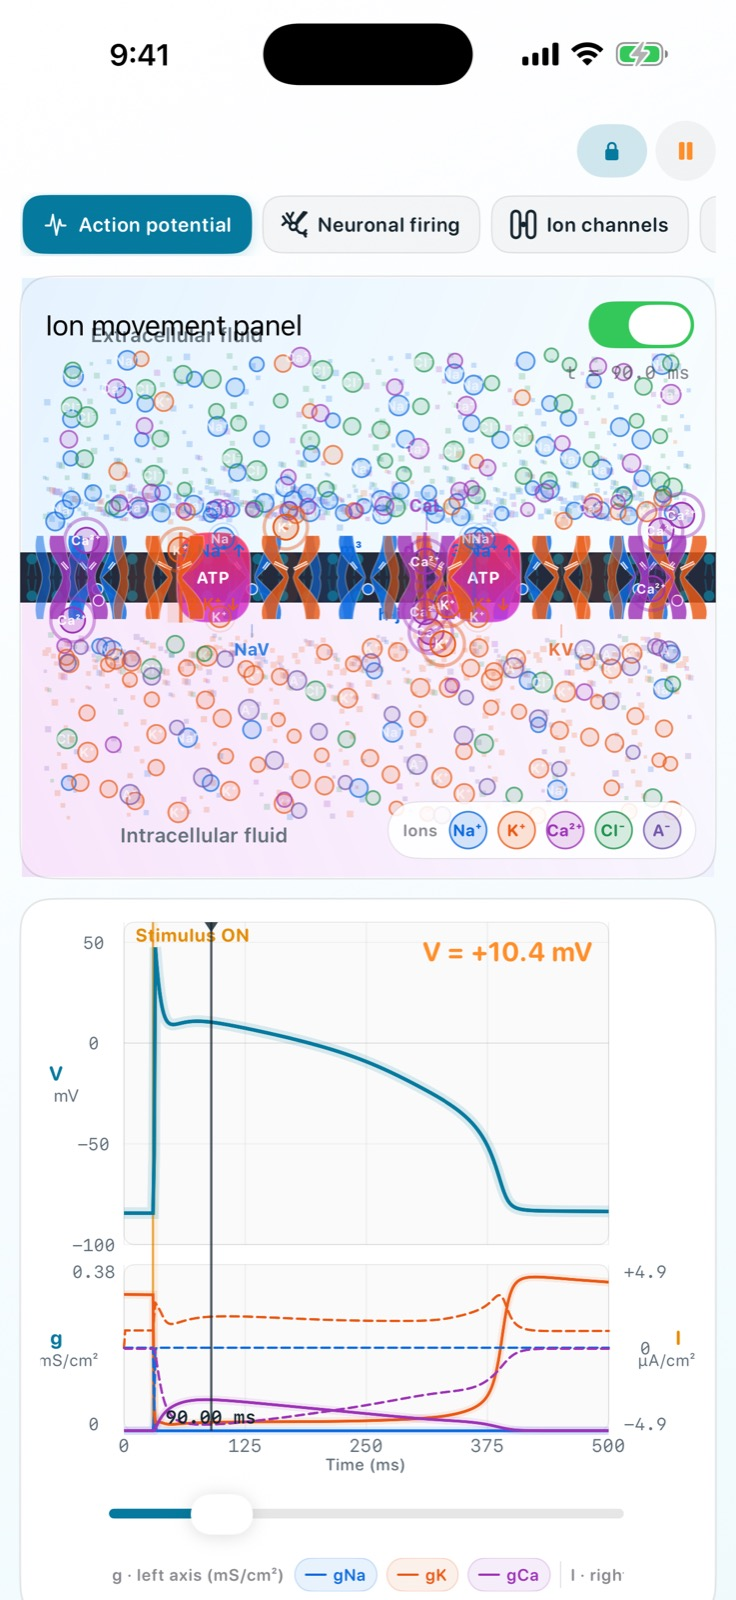
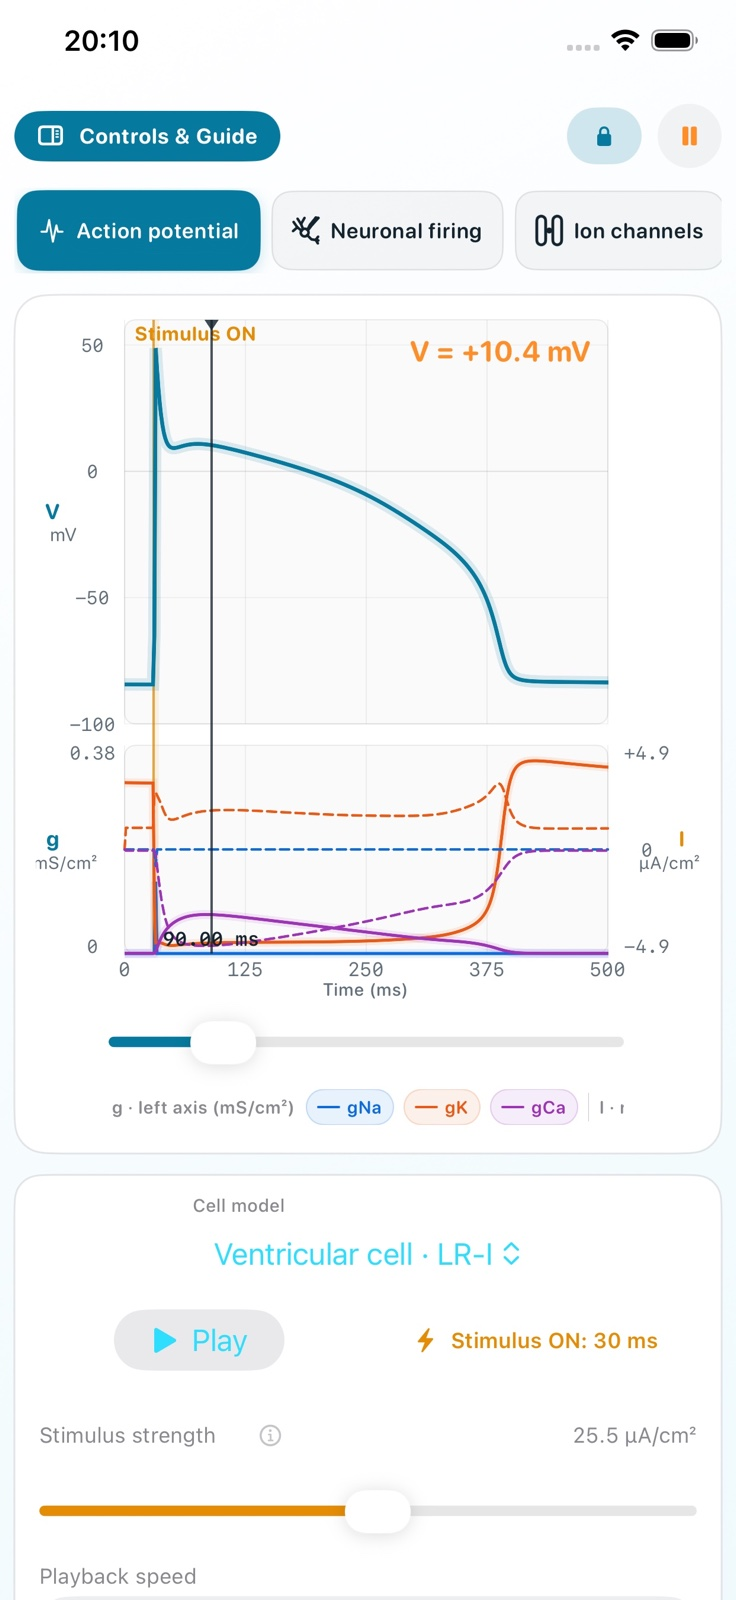
Publish Action Potential Dynamics App Store links

diff --git a/ja/apps/action-potential-dynamics/index.html b/ja/apps/action-potential-dynamics/index.html
@@ -21,7 +21,7 @@
   <header class="site-header">
     <nav class="nav-wrap" aria-label="メインナビゲーション">
       <a class="brand" href="/ja/"><span class="brand-mark">N</span><span>Nakano Lab Software</span></a>
-      <div class="nav-links"><a href="#labs">シミュレーション</a><a href="/ja/apps/action-potential-dynamics/support/">サポート</a><a class="language-link" href="/en/apps/action-potential-dynamics/" lang="en" data-language-link="en">EN</a></div>
+      <div class="nav-links"><a href="#labs">シミュレーション</a><a href="https://apps.apple.com/app/action-potential-dynamics/id6798524754" rel="external">App Store</a><a href="/ja/apps/action-potential-dynamics/support/">サポート</a><a class="language-link" href="/en/apps/action-potential-dynamics/" lang="en" data-language-link="en">EN</a></div>
     </nav>
   </header>
 
@@ -33,11 +33,11 @@
         <div>
           <h1 class="page-title">活動電位<br>ダイナミクス</h1>
           <p class="page-subtitle">膜電位を、イオンの動きと波形でつなぐ。</p>
-          <div class="meta-row"><span class="tag">iPhone</span><span class="tag">iPad</span><span class="tag">Mac</span><span class="tag">10言語対応</span></div>
+          <div class="meta-row"><span class="tag">App Storeで配信中</span><span class="tag">iPhone</span><span class="tag">iPad</span><span class="tag">Mac</span><span class="tag">10言語対応</span></div>
         </div>
       </div>
       <p class="lead">イオン粒子、チャネルゲート、コンダクタンス、電流、膜電位を同じモデル時刻で表示。神経細胞と心室筋細胞の活動電位から、神経細胞の発火、心臓の興奮伝導、シナプス統合、軸索伝導までを、操作できるモデルでたどれます。</p>
-      <div class="button-row"><a class="button primary" href="#labs">6つのシミュレーションを見る <span aria-hidden="true">↓</span></a><a class="button" href="/ja/apps/action-potential-dynamics/support/">使い方・サポート</a></div>
+      <div class="button-row"><a class="button primary" href="https://apps.apple.com/app/action-potential-dynamics/id6798524754" rel="external">App Storeからダウンロード <span aria-hidden="true">↗</span></a><a class="button" href="#labs">6つのシミュレーションを見る <span aria-hidden="true">↓</span></a><a class="button" href="/ja/apps/action-potential-dynamics/support/">使い方・サポート</a></div>
     </section>
 
     <section class="section tinted" id="labs">
@@ -68,9 +68,9 @@
 
     <section class="section tinted">
       <div class="container">
-        <div class="section-head reveal"><p class="eyebrow">In the app</p><h2 class="section-title">動き、波形、説明をひとつの画面に。</h2></div>
+        <div class="section-head reveal"><p class="eyebrow">In the app</p><h2 class="section-title">グラフを大きく。設定と解説は1タップで。</h2><p class="section-copy">縦向きでは波形と主要操作を見やすく保ち、「設定・解説」から詳細パネルを開きます。iPadとMacの横向きでは、グラフと調節パネルを並べて表示します。</p></div>
         <div class="screenshot-grid simulator-screenshot-grid">
-          <figure class="shot portrait reveal"><img src="/assets/images/action-potential-dynamics/ja/ipad-neuron.jpg" alt="iPad版の神経細胞活動電位画面。イオン粒子、膜チャネル、膜電位、コンダクタンス、電流を表示" width="1200" height="1600" loading="lazy"><figcaption>iPad — 神経細胞の活動電位を同じ時間軸で観察</figcaption></figure>
+          <figure class="shot portrait reveal"><img src="/assets/images/action-potential-dynamics/ja/ipad-neuron.jpg" alt="iPad版の神経細胞活動電位画面。膜電位、コンダクタンス、電流を同じ時間軸で表示" width="1200" height="1600" loading="lazy"><figcaption>iPad — グラフ中心の縦向き配置から「設定・解説」を1タップで表示</figcaption></figure>
           <figure class="shot phone reveal"><img src="/assets/images/action-potential-dynamics/ja/iphone-cardiac.jpg" alt="iPhone版の心室筋活動電位画面" width="736" height="1600" loading="lazy"><figcaption>iPhone — Ca²⁺が支える心室筋のプラトー相</figcaption></figure>
           <figure class="shot portrait reveal"><img src="/assets/images/action-potential-dynamics/ja/ipad-experiment.jpg" alt="iPad版のProで標準条件とコンダクタンス変更後を比較している画面" width="1200" height="1600" loading="lazy"><figcaption>iPad — 標準条件と実験条件を重ねて比較</figcaption></figure>
         </div>
@@ -86,17 +86,17 @@
 
     <section class="section tinted">
       <div class="container">
-        <div class="section-head reveal"><p class="eyebrow">Requirements & privacy</p><h2 class="section-title">計算は端末の中で完結。</h2></div>
+        <div class="section-head reveal"><p class="eyebrow">Requirements &amp; privacy</p><h2 class="section-title">計算は端末の中で完結。</h2></div>
         <div class="split">
           <article class="notice reveal"><h3>動作環境と言語</h3><p>iOS／iPadOS 17以降、macOS 14以降。日本語、英語、韓国語、中国語（簡体字・繁体字）、スペイン語、フランス語、ドイツ語、イタリア語、ブラジルポルトガル語に対応します。</p></article>
           <article class="notice reveal"><h3>データと利用目的</h3><p>アカウント、広告、アクセス解析はありません。シミュレーションは端末上で実行されます。本アプリは学習と可視化を目的とし、医療機器ではなく、診断や治療には使用できません。</p></article>
         </div>
-        <div class="button-row"><a class="button" href="/ja/apps/action-potential-dynamics/support/">サポート</a><a class="button" href="/ja/apps/action-potential-dynamics/privacy/">プライバシーポリシー</a></div>
+        <div class="button-row"><a class="button primary" href="https://apps.apple.com/app/action-potential-dynamics/id6798524754" rel="external">App Storeからダウンロード <span aria-hidden="true">↗</span></a><a class="button" href="/ja/apps/action-potential-dynamics/support/">サポート</a><a class="button" href="/ja/apps/action-potential-dynamics/privacy/">プライバシーポリシー</a></div>
       </div>
     </section>
   </main>
 
-  <footer class="site-footer"><div class="container footer-row"><p class="footer-copy">© <span data-current-year>2026</span> Takashi Nakano. All rights reserved.</p><div class="footer-links"><a href="/ja/apps/action-potential-dynamics/support/">サポート</a><a href="/ja/apps/action-potential-dynamics/privacy/">プライバシー</a></div></div></footer>
+  <footer class="site-footer"><div class="container footer-row"><p class="footer-copy">© <span data-current-year>2026</span> Takashi Nakano. All rights reserved.</p><div class="footer-links"><a href="https://apps.apple.com/app/action-potential-dynamics/id6798524754" rel="external">App Store</a><a href="/ja/apps/action-potential-dynamics/support/">サポート</a><a href="/ja/apps/action-potential-dynamics/privacy/">プライバシー</a></div></div></footer>
   <script src="/assets/js/site.js" defer></script>
 </body>
 </html>

diff --git a/en/apps/action-potential-dynamics/index.html b/en/apps/action-potential-dynamics/index.html
@@ -21,7 +21,7 @@
   <header class="site-header">
     <nav class="nav-wrap" aria-label="Main navigation">
       <a class="brand" href="/en/"><span class="brand-mark">N</span><span>Nakano Lab Software</span></a>
-      <div class="nav-links"><a href="#labs">Simulations</a><a href="/en/apps/action-potential-dynamics/support/">Support</a><a class="language-link" href="/ja/apps/action-potential-dynamics/" lang="ja" data-language-link="ja">日本語</a></div>
+      <div class="nav-links"><a href="#labs">Simulations</a><a href="https://apps.apple.com/app/action-potential-dynamics/id6798524754" rel="external">App Store</a><a href="/en/apps/action-potential-dynamics/support/">Support</a><a class="language-link" href="/ja/apps/action-potential-dynamics/" lang="ja" data-language-link="ja">日本語</a></div>
     </nav>
   </header>
 
@@ -33,11 +33,11 @@
         <div>
           <h1 class="page-title">Action Potential<br>Dynamics</h1>
           <p class="page-subtitle">Connect membrane voltage with ion movement and waveforms.</p>
-          <div class="meta-row"><span class="tag">iPhone</span><span class="tag">iPad</span><span class="tag">Mac</span><span class="tag">10 languages</span></div>
+          <div class="meta-row"><span class="tag">Available on the App Store</span><span class="tag">iPhone</span><span class="tag">iPad</span><span class="tag">Mac</span><span class="tag">10 languages</span></div>
         </div>
       </div>
       <p class="lead">See ion particles, channel gates, conductance, current, and membrane voltage at the same model time. Follow excitable-cell behavior from neuronal and ventricular action potentials to neuronal firing, cardiac conduction, synaptic integration, and axon propagation.</p>
-      <div class="button-row"><a class="button primary" href="#labs">Explore six simulations <span aria-hidden="true">↓</span></a><a class="button" href="/en/apps/action-potential-dynamics/support/">How to use &amp; support</a></div>
+      <div class="button-row"><a class="button primary" href="https://apps.apple.com/app/action-potential-dynamics/id6798524754" rel="external">Download on the App Store <span aria-hidden="true">↗</span></a><a class="button" href="#labs">Explore six simulations <span aria-hidden="true">↓</span></a><a class="button" href="/en/apps/action-potential-dynamics/support/">How to use &amp; support</a></div>
     </section>
 
     <section class="section tinted" id="labs">
@@ -68,9 +68,9 @@
 
     <section class="section tinted">
       <div class="container">
-        <div class="section-head reveal"><p class="eyebrow">In the app</p><h2 class="section-title">Movement, traces, and explanations together.</h2></div>
+        <div class="section-head reveal"><p class="eyebrow">In the app</p><h2 class="section-title">Graphs first. Controls and guidance one tap away.</h2><p class="section-copy">Portrait layouts keep the waveform and primary controls in view; Controls &amp; Guide opens the detailed settings and explanations. Landscape iPad and Mac layouts keep the familiar side-by-side workspace.</p></div>
         <div class="screenshot-grid simulator-screenshot-grid">
-          <figure class="shot portrait reveal"><img src="/assets/images/action-potential-dynamics/en/ipad-neuron.jpg" alt="iPad neuronal action-potential screen showing ion particles, membrane channels, voltage, conductance, and current" width="1200" height="1600" loading="lazy"><figcaption>iPad — Observe a neuronal action potential on one timeline</figcaption></figure>
+          <figure class="shot portrait reveal"><img src="/assets/images/action-potential-dynamics/en/ipad-neuron.jpg" alt="iPad neuronal action-potential screen showing voltage, conductance, and current on one timeline" width="1200" height="1600" loading="lazy"><figcaption>iPad — A graph-focused portrait layout with Controls &amp; Guide one tap away</figcaption></figure>
           <figure class="shot phone reveal"><img src="/assets/images/action-potential-dynamics/en/iphone-cardiac.jpg" alt="iPhone ventricular-cell action-potential screen" width="736" height="1600" loading="lazy"><figcaption>iPhone — The Ca²⁺-supported ventricular plateau</figcaption></figure>
           <figure class="shot portrait reveal"><img src="/assets/images/action-potential-dynamics/en/ipad-experiment.jpg" alt="iPad Pro features comparing standard and adjusted conductance conditions" width="1200" height="1600" loading="lazy"><figcaption>iPad — Overlay standard and experimental conditions</figcaption></figure>
         </div>
@@ -86,17 +86,17 @@
 
     <section class="section tinted">
       <div class="container">
-        <div class="section-head reveal"><p class="eyebrow">Requirements & privacy</p><h2 class="section-title">Simulation stays on your device.</h2></div>
+        <div class="section-head reveal"><p class="eyebrow">Requirements &amp; privacy</p><h2 class="section-title">Simulation stays on your device.</h2></div>
         <div class="split">
           <article class="notice reveal"><h3>Systems and languages</h3><p>Requires iOS/iPadOS 17 or later or macOS 14 or later. The interface supports English, Japanese, Korean, Simplified and Traditional Chinese, Spanish, French, German, Italian, and Brazilian Portuguese.</p></article>
           <article class="notice reveal"><h3>Data and intended use</h3><p>There are no accounts, ads, or analytics. Simulations run on your device. The app is for learning and visualization, is not a medical device, and must not be used for diagnosis or treatment.</p></article>
         </div>
-        <div class="button-row"><a class="button" href="/en/apps/action-potential-dynamics/support/">Support</a><a class="button" href="/en/apps/action-potential-dynamics/privacy/">Privacy Policy</a></div>
+        <div class="button-row"><a class="button primary" href="https://apps.apple.com/app/action-potential-dynamics/id6798524754" rel="external">Download on the App Store <span aria-hidden="true">↗</span></a><a class="button" href="/en/apps/action-potential-dynamics/support/">Support</a><a class="button" href="/en/apps/action-potential-dynamics/privacy/">Privacy Policy</a></div>
       </div>
     </section>
   </main>
 
-  <footer class="site-footer"><div class="container footer-row"><p class="footer-copy">© <span data-current-year>2026</span> Takashi Nakano. All rights reserved.</p><div class="footer-links"><a href="/en/apps/action-potential-dynamics/support/">Support</a><a href="/en/apps/action-potential-dynamics/privacy/">Privacy</a></div></div></footer>
+  <footer class="site-footer"><div class="container footer-row"><p class="footer-copy">© <span data-current-year>2026</span> Takashi Nakano. All rights reserved.</p><div class="footer-links"><a href="https://apps.apple.com/app/action-potential-dynamics/id6798524754" rel="external">App Store</a><a href="/en/apps/action-potential-dynamics/support/">Support</a><a href="/en/apps/action-potential-dynamics/privacy/">Privacy</a></div></div></footer>
   <script src="/assets/js/site.js" defer></script>
 </body>
 </html>

diff --git a/ja/apps/action-potential-dynamics/support/index.html b/ja/apps/action-potential-dynamics/support/index.html
@@ -10,13 +10,13 @@
 </head>
 <body>
   <a class="skip-link" href="#main">本文へ移動</a>
-  <header class="site-header"><nav class="nav-wrap" aria-label="メインナビゲーション"><a class="brand" href="/ja/"><span class="brand-mark">N</span><span>Nakano Lab Software</span></a><div class="nav-links"><a href="/ja/apps/action-potential-dynamics/">活動電位ダイナミクス</a><a href="/ja/apps/action-potential-dynamics/privacy/">プライバシー</a><a class="language-link" href="/en/apps/action-potential-dynamics/support/" lang="en" data-language-link="en">EN</a></div></nav></header>
+  <header class="site-header"><nav class="nav-wrap" aria-label="メインナビゲーション"><a class="brand" href="/ja/"><span class="brand-mark">N</span><span>Nakano Lab Software</span></a><div class="nav-links"><a href="/ja/apps/action-potential-dynamics/">活動電位ダイナミクス</a><a href="https://apps.apple.com/app/action-potential-dynamics/id6798524754" rel="external">App Store</a><a href="/ja/apps/action-potential-dynamics/privacy/">プライバシー</a><a class="language-link" href="/en/apps/action-potential-dynamics/support/" lang="en" data-language-link="en">EN</a></div></nav></header>
   <main id="main" class="container document-layout">
     <aside class="doc-nav" aria-label="ページ内目次"><strong>このページ</strong><a href="#requirements">動作環境</a><a href="#start">基本的な使い方</a><a href="#observe">見るべきポイント</a><a href="#faq">よくある質問</a><a href="#contact">お問い合わせ</a></aside>
     <article class="document">
       <p class="breadcrumbs"><a href="/ja/">Nakano Lab Software</a> / <a href="/ja/apps/action-potential-dynamics/">活動電位ダイナミクス</a> / サポート</p>
       <h1>活動電位ダイナミクス<br>サポート</h1>
-      <p class="updated">更新日: 2026年8月22日</p>
+      <p class="updated">更新日: 2026年9月24日</p>
       <p>活動電位ダイナミクスは、イオンの動き、チャネルの状態、コンダクタンス、電流、膜電位を同じ時刻で結びつけて観察するiPhone・iPad・Mac向けシミュレーターです。活動電位、神経細胞発火特性、イオンチャネル、心臓リズム、シナプス統合、軸索伝導の6画面を収録しています。</p>
 
       <h2 id="requirements">動作環境</h2>
@@ -28,13 +28,14 @@
         <li>画面上部のタブから、見たいシミュレーションを選びます。横幅が足りない場合は、タブ列を横へスクロールできます。</li>
         <li>再生／一時停止を切り替えます。再生速度は0.25×、0.5×、1×、2×から選べます。</li>
         <li>グラフ下の時間カーソルを動かし、任意の時点の粒子、チャネルゲート、波形、説明を対応させます。</li>
-        <li>右側または下部の調節パネルで、細胞型、条件、刺激、パラメータを変更します。情報ボタンから各設定の説明を確認できます。</li>
+        <li>iPhone、iPadの縦向き、または狭いウインドウでは「設定・解説」を押し、設定と説明をスクロール可能なパネルで開きます。横向きの広い画面では、グラフの横にある調節パネルを使います。情報ボタンから各設定の説明を確認できます。</li>
         <li>波形を保持できる画面では、変更前の波形を残してから条件を変え、変更後と重ねて比較します。</li>
         <li>最初の状態へ戻すときは、リセットボタンを押します。</li>
       </ol>
 
       <h3>Pro</h3>
       <p>Proは米国価格USD 7.99の買い切りです。ほかの地域ではApp Storeに表示される対応価格が適用されます。全6種類のシミュレーションで現在の条件と主要指標を最大50件記録し、同じシミュレーションの直近2件を数値比較して、全記録をCSVで書き出せます。活動電位の最大Na⁺・K⁺・Ca²⁺コンダクタンス調整、標準波形比較、チャネル抑制プリセット、イオンチャネルの保持波形比較、専門的な神経細胞5種も解放します。基本の6シミュレーションと神経細胞4種は購入なしで利用できます。同じApple Accountを使用する別の対応端末では「購入を復元」を選んでください。</p>
+      <p><a class="button primary" href="https://apps.apple.com/app/action-potential-dynamics/id6798524754" rel="external">App Storeからダウンロード <span aria-hidden="true">↗</span></a></p>
 
       <h2 id="observe">シミュレーションごとの見るべきポイント</h2>
       <h3>活動電位</h3>
@@ -75,7 +76,7 @@
       <div class="contact-box"><strong>活動電位ダイナミクス Support</strong><br>運営者: Takashi Nakano<br>メール: <a href="mailto:nakano.prog@gmail.com">nakano.prog@gmail.com</a></div>
     </article>
   </main>
-  <footer class="site-footer"><div class="container footer-row"><p class="footer-copy">© <span data-current-year>2026</span> Takashi Nakano.</p><div class="footer-links"><a href="/ja/apps/action-potential-dynamics/">活動電位ダイナミクス</a><a href="/ja/apps/action-potential-dynamics/privacy/">プライバシー</a></div></div></footer>
+  <footer class="site-footer"><div class="container footer-row"><p class="footer-copy">© <span data-current-year>2026</span> Takashi Nakano.</p><div class="footer-links"><a href="https://apps.apple.com/app/action-potential-dynamics/id6798524754" rel="external">App Store</a><a href="/ja/apps/action-potential-dynamics/">活動電位ダイナミクス</a><a href="/ja/apps/action-potential-dynamics/privacy/">プライバシー</a></div></div></footer>
   <script src="/assets/js/site.js" defer></script>
 </body>
 </html>

diff --git a/en/apps/action-potential-dynamics/support/index.html b/en/apps/action-potential-dynamics/support/index.html
@@ -10,13 +10,13 @@
 </head>
 <body>
   <a class="skip-link" href="#main">Skip to content</a>
-  <header class="site-header"><nav class="nav-wrap" aria-label="Main navigation"><a class="brand" href="/en/"><span class="brand-mark">N</span><span>Nakano Lab Software</span></a><div class="nav-links"><a href="/en/apps/action-potential-dynamics/">Action Potential Dynamics</a><a href="/en/apps/action-potential-dynamics/privacy/">Privacy</a><a class="language-link" href="/ja/apps/action-potential-dynamics/support/" lang="ja" data-language-link="ja">日本語</a></div></nav></header>
+  <header class="site-header"><nav class="nav-wrap" aria-label="Main navigation"><a class="brand" href="/en/"><span class="brand-mark">N</span><span>Nakano Lab Software</span></a><div class="nav-links"><a href="/en/apps/action-potential-dynamics/">Action Potential Dynamics</a><a href="https://apps.apple.com/app/action-potential-dynamics/id6798524754" rel="external">App Store</a><a href="/en/apps/action-potential-dynamics/privacy/">Privacy</a><a class="language-link" href="/ja/apps/action-potential-dynamics/support/" lang="ja" data-language-link="ja">日本語</a></div></nav></header>
   <main id="main" class="container document-layout">
     <aside class="doc-nav" aria-label="On this page"><strong>On this page</strong><a href="#requirements">Requirements</a><a href="#start">Getting started</a><a href="#observe">What to observe</a><a href="#faq">FAQ</a><a href="#contact">Contact</a></aside>
     <article class="document">
       <p class="breadcrumbs"><a href="/en/">Nakano Lab Software</a> / <a href="/en/apps/action-potential-dynamics/">Action Potential Dynamics</a> / Support</p>
       <h1>Action Potential Dynamics<br>Support</h1>
-      <p class="updated">Updated: August 22, 2026</p>
+      <p class="updated">Updated: September 24, 2026</p>
       <p>Action Potential Dynamics is an iPhone, iPad, and Mac simulator that connects ion movement, channel state, conductance, current, and membrane voltage at the same model time. It contains six screens: Action Potential, Neuronal Firing Characteristics, Ion Channels, Cardiac Rhythm, Synaptic Integration, and Axon Conduction.</p>
 
       <h2 id="requirements">System requirements</h2>
@@ -28,13 +28,14 @@
         <li>Choose a simulation from the tab row at the top. Scroll the row horizontally when all tabs do not fit.</li>
         <li>Start or pause playback. Available playback speeds are 0.25×, 0.5×, 1×, and 2×.</li>
         <li>Move the time cursor below the graph to align particle positions, channel gates, traces, and explanations at any recorded instant.</li>
-        <li>Use the control panel at the side or bottom to change the cell type, condition, stimulus, or parameter. Information buttons explain individual settings.</li>
+        <li>On iPhone, portrait iPad, or a narrow window, tap Controls &amp; Guide to open the settings and explanations in a scrollable panel. On wider landscape layouts, use the inspector beside the graph. Information buttons explain individual settings.</li>
         <li>Where trace hold is available, keep the current result before changing a condition, then overlay the before-and-after traces.</li>
         <li>Use Reset to return the selected simulation to its initial state.</li>
       </ol>
 
       <h3>Pro</h3>
       <p>Pro is a US$7.99 one-time purchase in the United States storefront; other storefronts use the corresponding price shown by the App Store. It records up to 50 conditions and key measurements across all six simulations, compares the latest two results from the same simulation numerically, and exports all records as CSV. It also unlocks maximum Na⁺, K⁺, and Ca²⁺ conductance controls, standard-trace comparison, channel-inhibition presets, held Ion Channel traces, and five specialized neuron presets. All six core simulations and four foundational neuron presets remain available without purchase. On another supported device using the same Apple Account, choose Restore Purchases.</p>
+      <p><a class="button primary" href="https://apps.apple.com/app/action-potential-dynamics/id6798524754" rel="external">Download on the App Store <span aria-hidden="true">↗</span></a></p>
 
       <h2 id="observe">What to observe in each simulation</h2>
       <h3>Action Potential</h3>
@@ -75,7 +76,7 @@
       <div class="contact-box"><strong>Action Potential Dynamics Support</strong><br>Operator: Takashi Nakano<br>Email: <a href="mailto:nakano.prog@gmail.com">nakano.prog@gmail.com</a></div>
     </article>
   </main>
-  <footer class="site-footer"><div class="container footer-row"><p class="footer-copy">© <span data-current-year>2026</span> Takashi Nakano.</p><div class="footer-links"><a href="/en/apps/action-potential-dynamics/">Action Potential Dynamics</a><a href="/en/apps/action-potential-dynamics/privacy/">Privacy</a></div></div></footer>
+  <footer class="site-footer"><div class="container footer-row"><p class="footer-copy">© <span data-current-year>2026</span> Takashi Nakano.</p><div class="footer-links"><a href="https://apps.apple.com/app/action-potential-dynamics/id6798524754" rel="external">App Store</a><a href="/en/apps/action-potential-dynamics/">Action Potential Dynamics</a><a href="/en/apps/action-potential-dynamics/privacy/">Privacy</a></div></div></footer>
   <script src="/assets/js/site.js" defer></script>
 </body>
 </html>

diff --git a/ja/apps/action-potential-dynamics/privacy/index.html b/ja/apps/action-potential-dynamics/privacy/index.html
@@ -10,7 +10,7 @@
 </head>
 <body>
   <a class="skip-link" href="#main">本文へ移動</a>
-  <header class="site-header"><nav class="nav-wrap" aria-label="メインナビゲーション"><a class="brand" href="/ja/"><span class="brand-mark">N</span><span>Nakano Lab Software</span></a><div class="nav-links"><a href="/ja/apps/action-potential-dynamics/">活動電位ダイナミクス</a><a href="/ja/apps/action-potential-dynamics/support/">サポート</a><a class="language-link" href="/en/apps/action-potential-dynamics/privacy/" lang="en" data-language-link="en">EN</a></div></nav></header>
+  <header class="site-header"><nav class="nav-wrap" aria-label="メインナビゲーション"><a class="brand" href="/ja/"><span class="brand-mark">N</span><span>Nakano Lab Software</span></a><div class="nav-links"><a href="/ja/apps/action-potential-dynamics/">活動電位ダイナミクス</a><a href="https://apps.apple.com/app/action-potential-dynamics/id6798524754" rel="external">App Store</a><a href="/ja/apps/action-potential-dynamics/support/">サポート</a><a class="language-link" href="/en/apps/action-potential-dynamics/privacy/" lang="en" data-language-link="en">EN</a></div></nav></header>
   <main id="main" class="container document-layout">
     <aside class="doc-nav" aria-label="ページ内目次"><strong>このページ</strong><a href="#collection">データ収集</a><a href="#processing">端末内処理</a><a href="#purchase">アプリ内購入</a><a href="#medical">利用目的</a><a href="#contact">お問い合わせ</a></aside>
     <article class="document">
@@ -53,7 +53,7 @@
       <div class="contact-box">運営者: Takashi Nakano<br>メール: <a href="mailto:nakano.prog@gmail.com">nakano.prog@gmail.com</a><br>Web: <a href="https://nakano-lab.github.io/ja/apps/action-potential-dynamics/">nakano-lab.github.io/ja/apps/action-potential-dynamics/</a></div>
     </article>
   </main>
-  <footer class="site-footer"><div class="container footer-row"><p class="footer-copy">© <span data-current-year>2026</span> Takashi Nakano.</p><div class="footer-links"><a href="/ja/apps/action-potential-dynamics/">活動電位ダイナミクス</a><a href="/ja/apps/action-potential-dynamics/support/">サポート</a></div></div></footer>
+  <footer class="site-footer"><div class="container footer-row"><p class="footer-copy">© <span data-current-year>2026</span> Takashi Nakano.</p><div class="footer-links"><a href="https://apps.apple.com/app/action-potential-dynamics/id6798524754" rel="external">App Store</a><a href="/ja/apps/action-potential-dynamics/">活動電位ダイナミクス</a><a href="/ja/apps/action-potential-dynamics/support/">サポート</a></div></div></footer>
   <script src="/assets/js/site.js" defer></script>
 </body>
 </html>

diff --git a/en/apps/action-potential-dynamics/privacy/index.html b/en/apps/action-potential-dynamics/privacy/index.html
@@ -10,7 +10,7 @@
 </head>
 <body>
   <a class="skip-link" href="#main">Skip to content</a>
-  <header class="site-header"><nav class="nav-wrap" aria-label="Main navigation"><a class="brand" href="/en/"><span class="brand-mark">N</span><span>Nakano Lab Software</span></a><div class="nav-links"><a href="/en/apps/action-potential-dynamics/">Action Potential Dynamics</a><a href="/en/apps/action-potential-dynamics/support/">Support</a><a class="language-link" href="/ja/apps/action-potential-dynamics/privacy/" lang="ja" data-language-link="ja">日本語</a></div></nav></header>
+  <header class="site-header"><nav class="nav-wrap" aria-label="Main navigation"><a class="brand" href="/en/"><span class="brand-mark">N</span><span>Nakano Lab Software</span></a><div class="nav-links"><a href="/en/apps/action-potential-dynamics/">Action Potential Dynamics</a><a href="https://apps.apple.com/app/action-potential-dynamics/id6798524754" rel="external">App Store</a><a href="/en/apps/action-potential-dynamics/support/">Support</a><a class="language-link" href="/ja/apps/action-potential-dynamics/privacy/" lang="ja" data-language-link="ja">日本語</a></div></nav></header>
   <main id="main" class="container document-layout">
     <aside class="doc-nav" aria-label="On this page"><strong>On this page</strong><a href="#collection">Data collection</a><a href="#processing">On-device processing</a><a href="#purchase">In-app purchase</a><a href="#medical">Intended use</a><a href="#contact">Contact</a></aside>
     <article class="document">
@@ -53,7 +53,7 @@
       <div class="contact-box">Operator: Takashi Nakano<br>Email: <a href="mailto:nakano.prog@gmail.com">nakano.prog@gmail.com</a><br>Web: <a href="https://nakano-lab.github.io/en/apps/action-potential-dynamics/">nakano-lab.github.io/en/apps/action-potential-dynamics/</a></div>
     </article>
   </main>
-  <footer class="site-footer"><div class="container footer-row"><p class="footer-copy">© <span data-current-year>2026</span> Takashi Nakano.</p><div class="footer-links"><a href="/en/apps/action-potential-dynamics/">Action Potential Dynamics</a><a href="/en/apps/action-potential-dynamics/support/">Support</a></div></div></footer>
+  <footer class="site-footer"><div class="container footer-row"><p class="footer-copy">© <span data-current-year>2026</span> Takashi Nakano.</p><div class="footer-links"><a href="https://apps.apple.com/app/action-potential-dynamics/id6798524754" rel="external">App Store</a><a href="/en/apps/action-potential-dynamics/">Action Potential Dynamics</a><a href="/en/apps/action-potential-dynamics/support/">Support</a></div></div></footer>
   <script src="/assets/js/site.js" defer></script>
 </body>
 </html>

diff --git a/en/index.html b/en/index.html
@@ -76,8 +76,8 @@
           </a>
 
           <a class="app-card reveal" href="/en/apps/action-potential-dynamics/">
-            <div class="card-top"><img class="app-icon" src="/assets/images/action-potential-dynamics/icon.png" alt="" width="1024" height="1024"><div><p class="card-kicker">Mac · iPhone · iPad</p><h3 class="card-title">Action Potential Dynamics</h3></div></div>
-            <p class="card-copy">Connect action potentials, neuronal firing characteristics, 13 ion channels, cardiac rhythm, synaptic integration, and axon conduction through adjustable models and synchronized waveforms.</p>
+            <div class="card-top"><img class="app-icon" src="/assets/images/action-potential-dynamics/icon.png" alt="" width="1024" height="1024"><div><p class="card-kicker">Available now · Mac · iPhone · iPad</p><h3 class="card-title">Action Potential Dynamics</h3></div></div>
+            <p class="card-copy">Connect action potentials, neuronal firing characteristics, 13 ion channels, cardiac rhythm, synaptic integration, and axon conduction through adjustable models and synchronized waveforms. Available now on the App Store.</p>
             <span class="card-link">Learn more <span aria-hidden="true">↗</span></span>
           </a>
 

diff --git a/ja/index.html b/ja/index.html
@@ -84,9 +84,9 @@
           <a class="app-card reveal" href="/ja/apps/action-potential-dynamics/">
             <div class="card-top">
               <img class="app-icon" src="/assets/images/action-potential-dynamics/icon.png" alt="" width="1024" height="1024">
-              <div><p class="card-kicker">Mac · iPhone · iPad</p><h3 class="card-title">活動電位ダイナミクス</h3></div>
+              <div><p class="card-kicker">App Storeで配信中 · Mac · iPhone · iPad</p><h3 class="card-title">活動電位ダイナミクス</h3></div>
             </div>
-            <p class="card-copy">活動電位、神経細胞発火特性、13種のイオンチャネル、心臓リズム、シナプス統合、軸索伝導を、操作できるモデルと波形でつなげて理解するシミュレーター。</p>
+            <p class="card-copy">活動電位、神経細胞発火特性、13種のイオンチャネル、心臓リズム、シナプス統合、軸索伝導を、操作できるモデルと波形でつなげて理解するシミュレーター。App Storeで配信中です。</p>
             <span class="card-link">詳しく見る <span aria-hidden="true">↗</span></span>
           </a>
 
